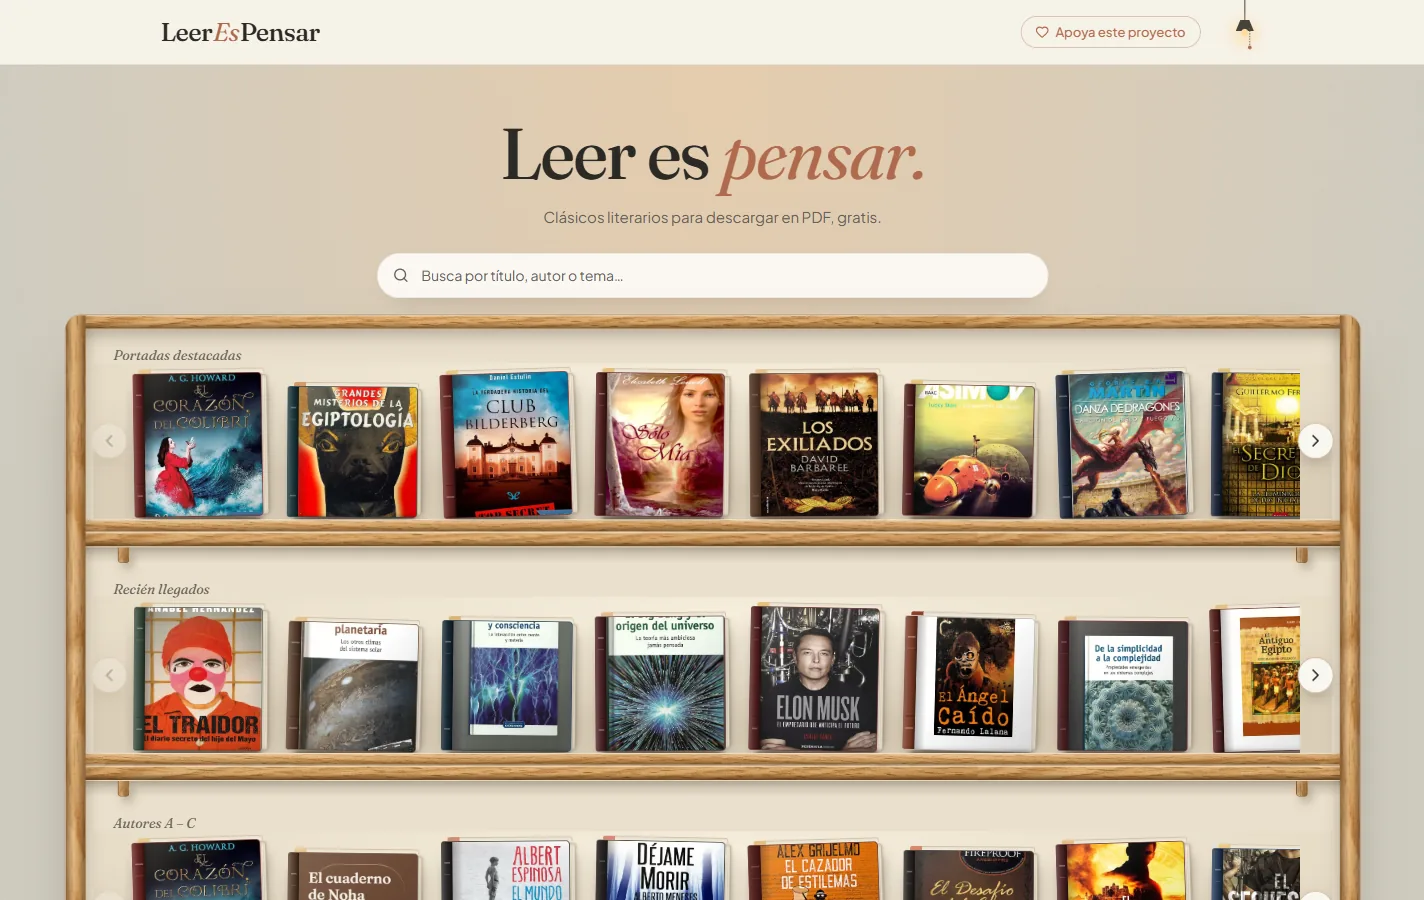
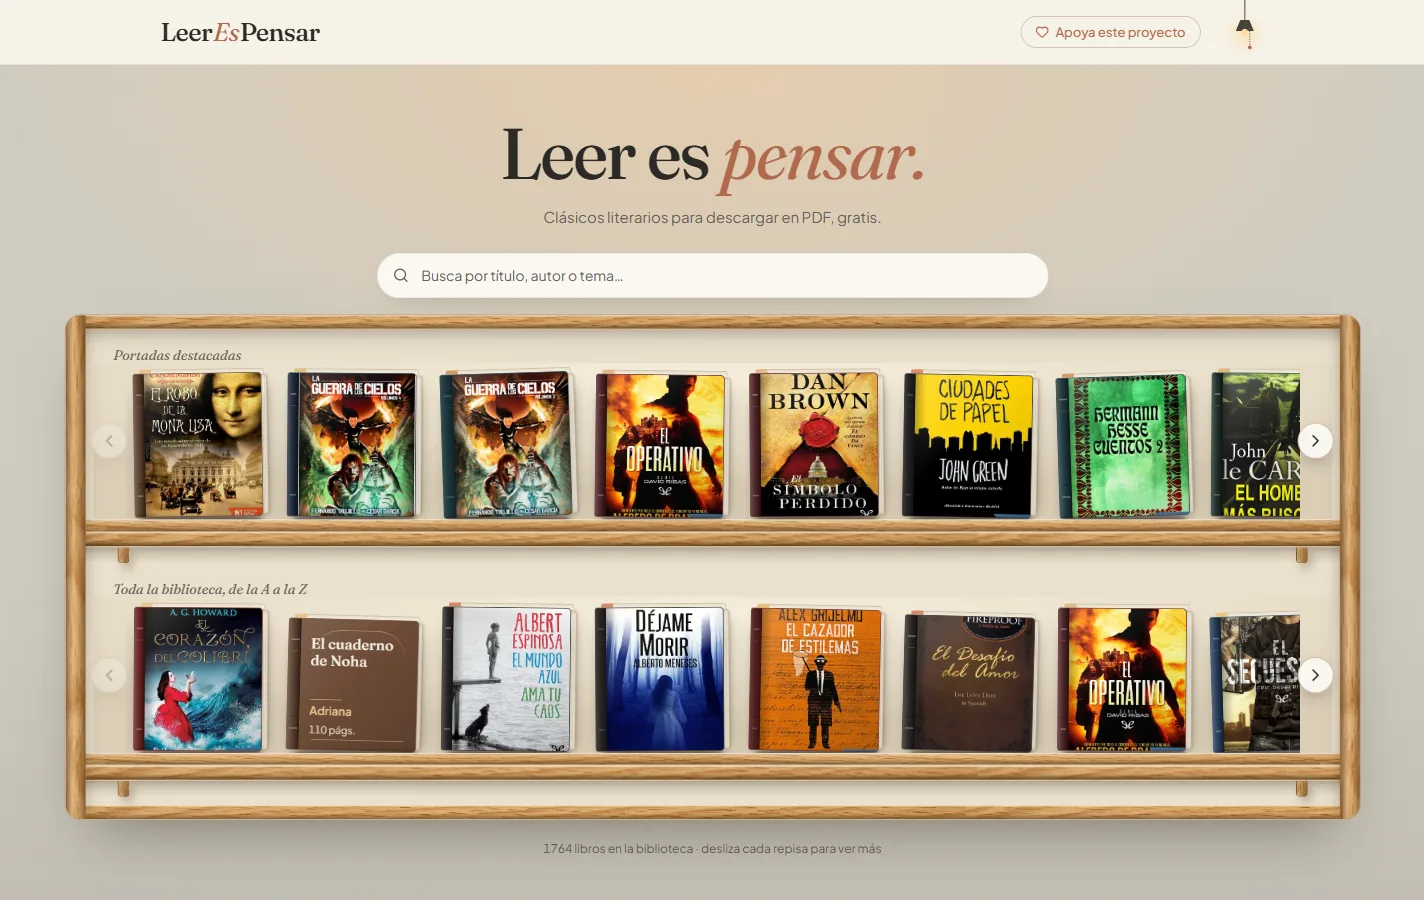
docs: repositorio al día (guía de la fan page, scripts en carpetas, hero con dos repisas)

diff --git a/docs/fanpage.md b/docs/fanpage.md
@@ -1,0 +1,46 @@
+# Fan page: "lo leí"
+
+Los lectores comparten en la [fan page](https://www.facebook.com/LeerPensar) que leyeron un libro.
+Sale al momento, sin aprobación, y une al grupo alrededor de la lectura.
+
+## Cómo funciona
+
+1. En la ficha del libro → **Compartir** → **Publicar que lo leí**: nombre, apellido y un comentario
+   opcional. Se publica solo "Nombre + inicial" ("María G."); el nombre queda recordado en ese navegador.
+2. Se publica una foto 1080×1350 con la portada real, **"María G. lo leyó"** y su comentario
+   (si no escribió nada, una cita clásica sobre la lectura).
+3. El texto de la publicación agradece al lector por tomarse el tiempo de leer y aprender, y
+   añade una cita (Cervantes, Cicerón, Descartes, Dickinson…).
+4. Si Facebook falla, la publicación no se pierde: queda en «adm» → **Publicaciones** para
+   publicarla desde ahí (o a mano: descargar tarjeta + copiar texto).
+
+Límites: solo con el código del grupo y 5 publicaciones por hora por persona.
+
+| Pieza | Dónde |
+|---|---|
+| Publicar (lector) | `functions/api/compartir.ts` |
+| Cola y panel «adm» | `functions/api/compartir-admin.ts`, `src/components/AdminFanPagePanel.tsx` |
+| Tarjeta | `src/utils/bookShareCard.ts` (lo importante dentro del cuadrado central, que Facebook no recorta) |
+| Texto y citas | `src/utils/fanPage.ts` |
+
+## Conexión con Facebook
+
+Secretos de Cloudflare Pages (ya configurados):
+
+- `FB_PAGE_ID` = id de la página Leer es Pensar.
+- `FB_PAGE_TOKEN` = llave de la página (permiso `pages_manage_posts`, no caduca).
+- `FB_GRAPH_VERSION` = versión de la API (`v27.0`).
+
+### Renovar la llave (si Facebook la invalida, p. ej. al cambiar la contraseña)
+
+1. [Explorador de la API Graph](https://developers.facebook.com/tools/explorer/) → app **Apuntes de Frank**
+   → **Generate Access Token** → marcar la página **Leer es Pensar** → copiar el token.
+2. [Depurador de tokens](https://developers.facebook.com/tools/debug/accesstoken/) → pegar → **Depurar**
+   → **Ampliar token de acceso** → copiar el token nuevo (el de abajo).
+3. `node scripts/fanpage/conectar-token.mjs` → pegarlo cuando lo pida (no se ve). Debe decir
+   `caduca: nunca · publicar: sí`. Luego volver a desplegar.
+
+## Opcional: resúmenes con IA en «adm»
+
+`GEMINI_API_KEY` (gratis en Google AI Studio) y `GEMINI_MODEL` (por defecto `gemini-2.5-flash`).
+Sin ellos, el botón "Sugerir con IA" no aparece.

diff --git a/README.md b/README.md
@@ -24,8 +24,9 @@ con lámpara (claro/oscuro), estante de 1764 libros con sus portadas reales y de
 src/                 Aplicación (React + Vite + Tailwind)
 functions/           Cloudflare Pages Functions: acceso, catálogo, PDFs, portadas, gratitud, fan page
 public/              Archivos estáticos (cabeceras, QR, texturas, favicon)
-scripts/biblioteca/  Herramientas para inventariar, catalogar y subir los PDFs a R2
-docs/                Guía de la biblioteca e imagen del README
+scripts/biblioteca/  Inventariar, catalogar y subir los PDFs a R2
+scripts/fanpage/     Conectar la fan page de Facebook (guarda la llave sin mostrarla)
+docs/                Guías (biblioteca, fan page) e imagen del README
 ```
 
 ## Uso
@@ -37,4 +38,8 @@ npm test         # pruebas
 npm run build && npx wrangler pages deploy --branch main
 ```
 
-Los libros viven en Cloudflare R2 (privado). Cómo agregarlos: [docs/biblioteca.md](docs/biblioteca.md).
+Secretos en Cloudflare Pages (no van en el repositorio): `ACCESS_CODE`, `ADMIN_CODE`, `SESSION_SECRET`
+y los de Facebook. Modelo local: [.dev.vars.example](.dev.vars.example).
+
+- Libros (Cloudflare R2, privado) y cómo agregarlos: [docs/biblioteca.md](docs/biblioteca.md)
+- Fan page y cómo renovar la llave: [docs/fanpage.md](docs/fanpage.md)

diff --git a/docs/biblioteca.md b/docs/biblioteca.md
@@ -109,16 +109,9 @@ node scripts/biblioteca/publicar-catalogo.mjs --subir
 - Cambiar el código de administrador: `npx wrangler pages secret put ADMIN_CODE --project-name leer-es-pensar`.
 - En desarrollo el muro vive en memoria y el código de prueba es `dev`.
 
-## Fan page: "lo leí"
+## Fan page
 
-- El lector, en la ficha → Compartir → **Publicar que lo leí** (nombre, apellido y comentario opcional).
-  Queda pendiente; se guarda solo "Nombre + inicial". Máximo 5 por hora por IP.
-- Frank, en «adm» → **Publicaciones**: ve la tarjeta (portada real + resumen + "María G. lo leyó"),
-  escribe o pide a la IA un resumen y publica. Sin Facebook conectado: descargar tarjeta + copiar texto.
-- Funciones: `/api/compartir` (lector) y `/api/compartir-admin` (con `ADMIN_CODE`).
-- Opcional, para publicar solo y sugerir resúmenes (secretos de Cloudflare Pages):
-  - `FB_PAGE_ID`, `FB_PAGE_TOKEN` (token de la página con `pages_manage_posts`), `FB_GRAPH_VERSION` (por defecto `v23.0`).
-  - `GEMINI_API_KEY` (gratis en Google AI Studio) y `GEMINI_MODEL` (por defecto `gemini-2.5-flash`).
+Ver [fanpage.md](fanpage.md).
 
 ## Compresión: se suben los originales
 
